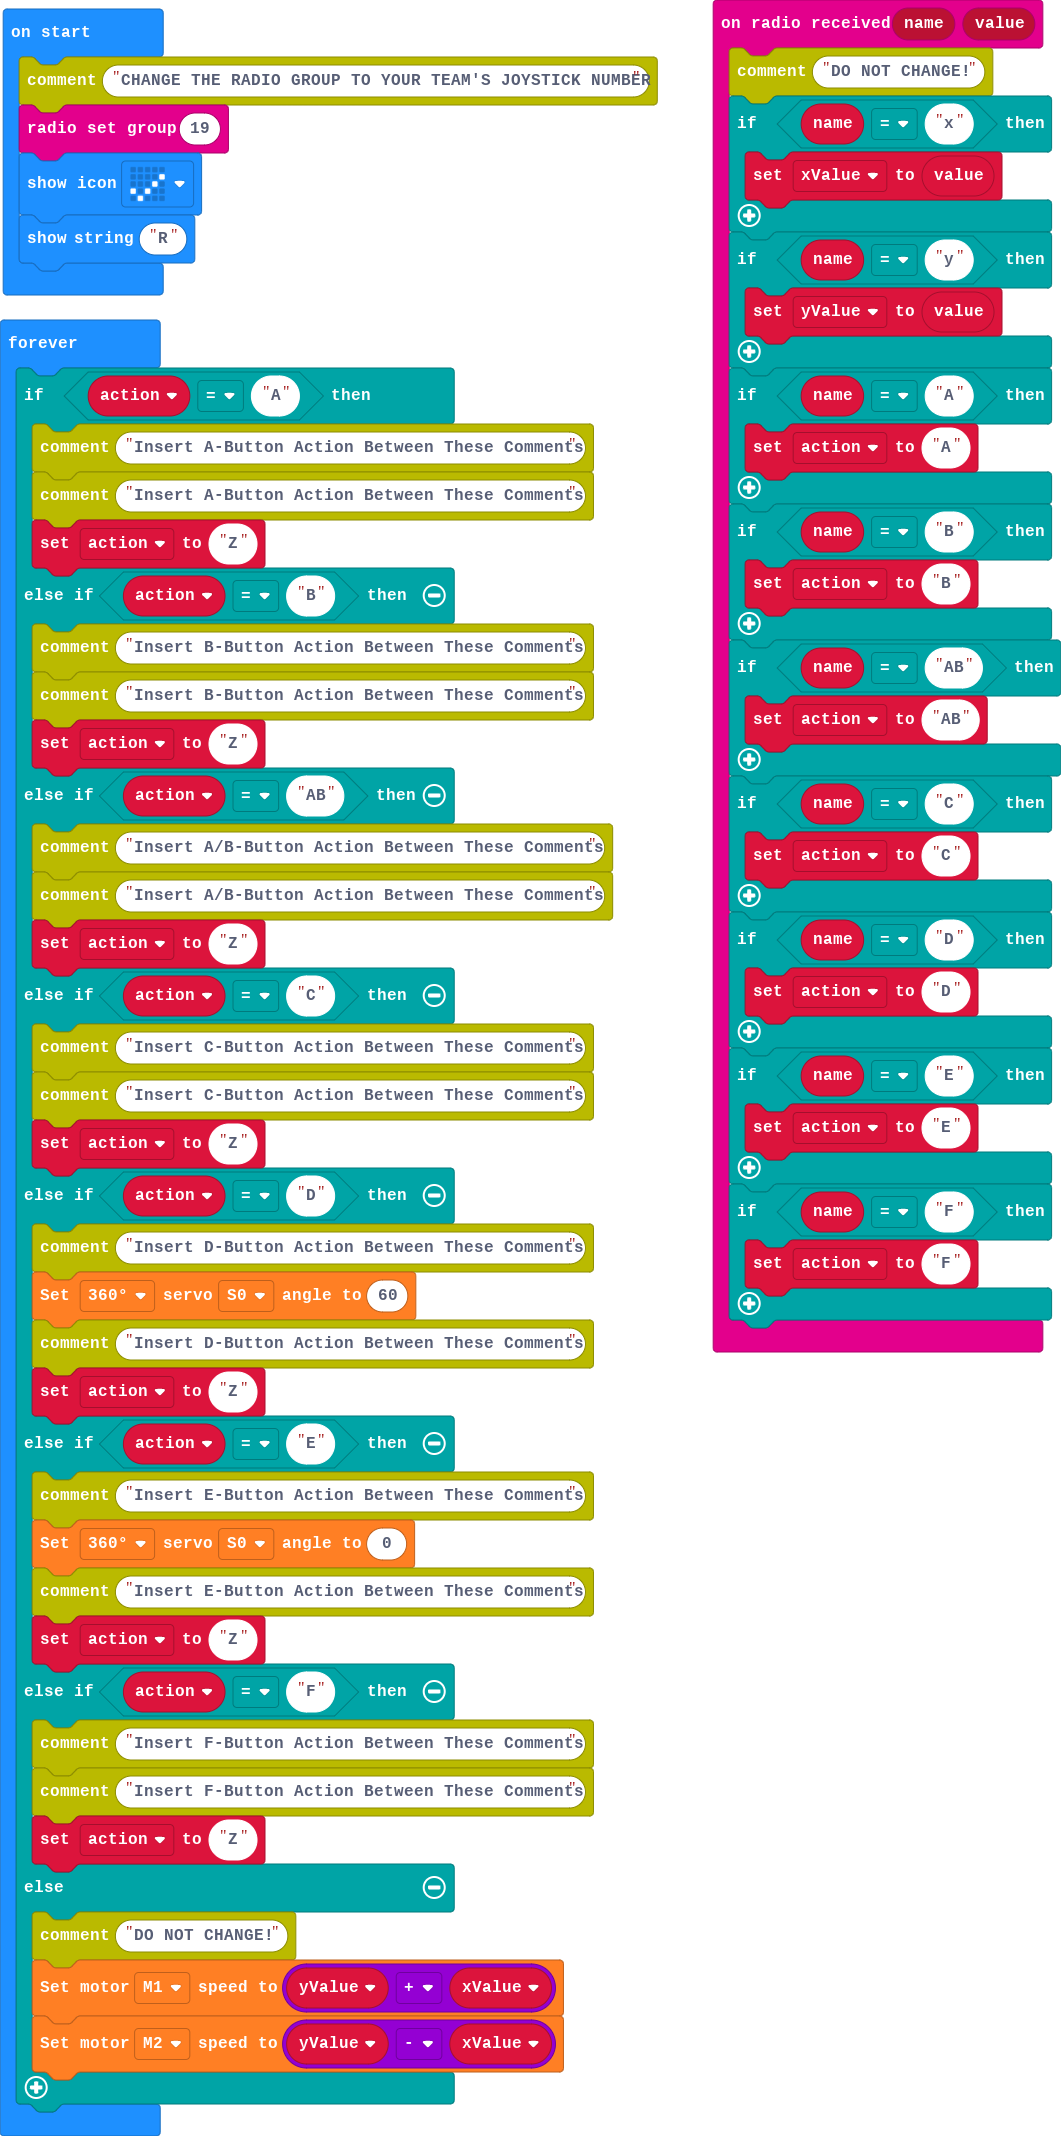
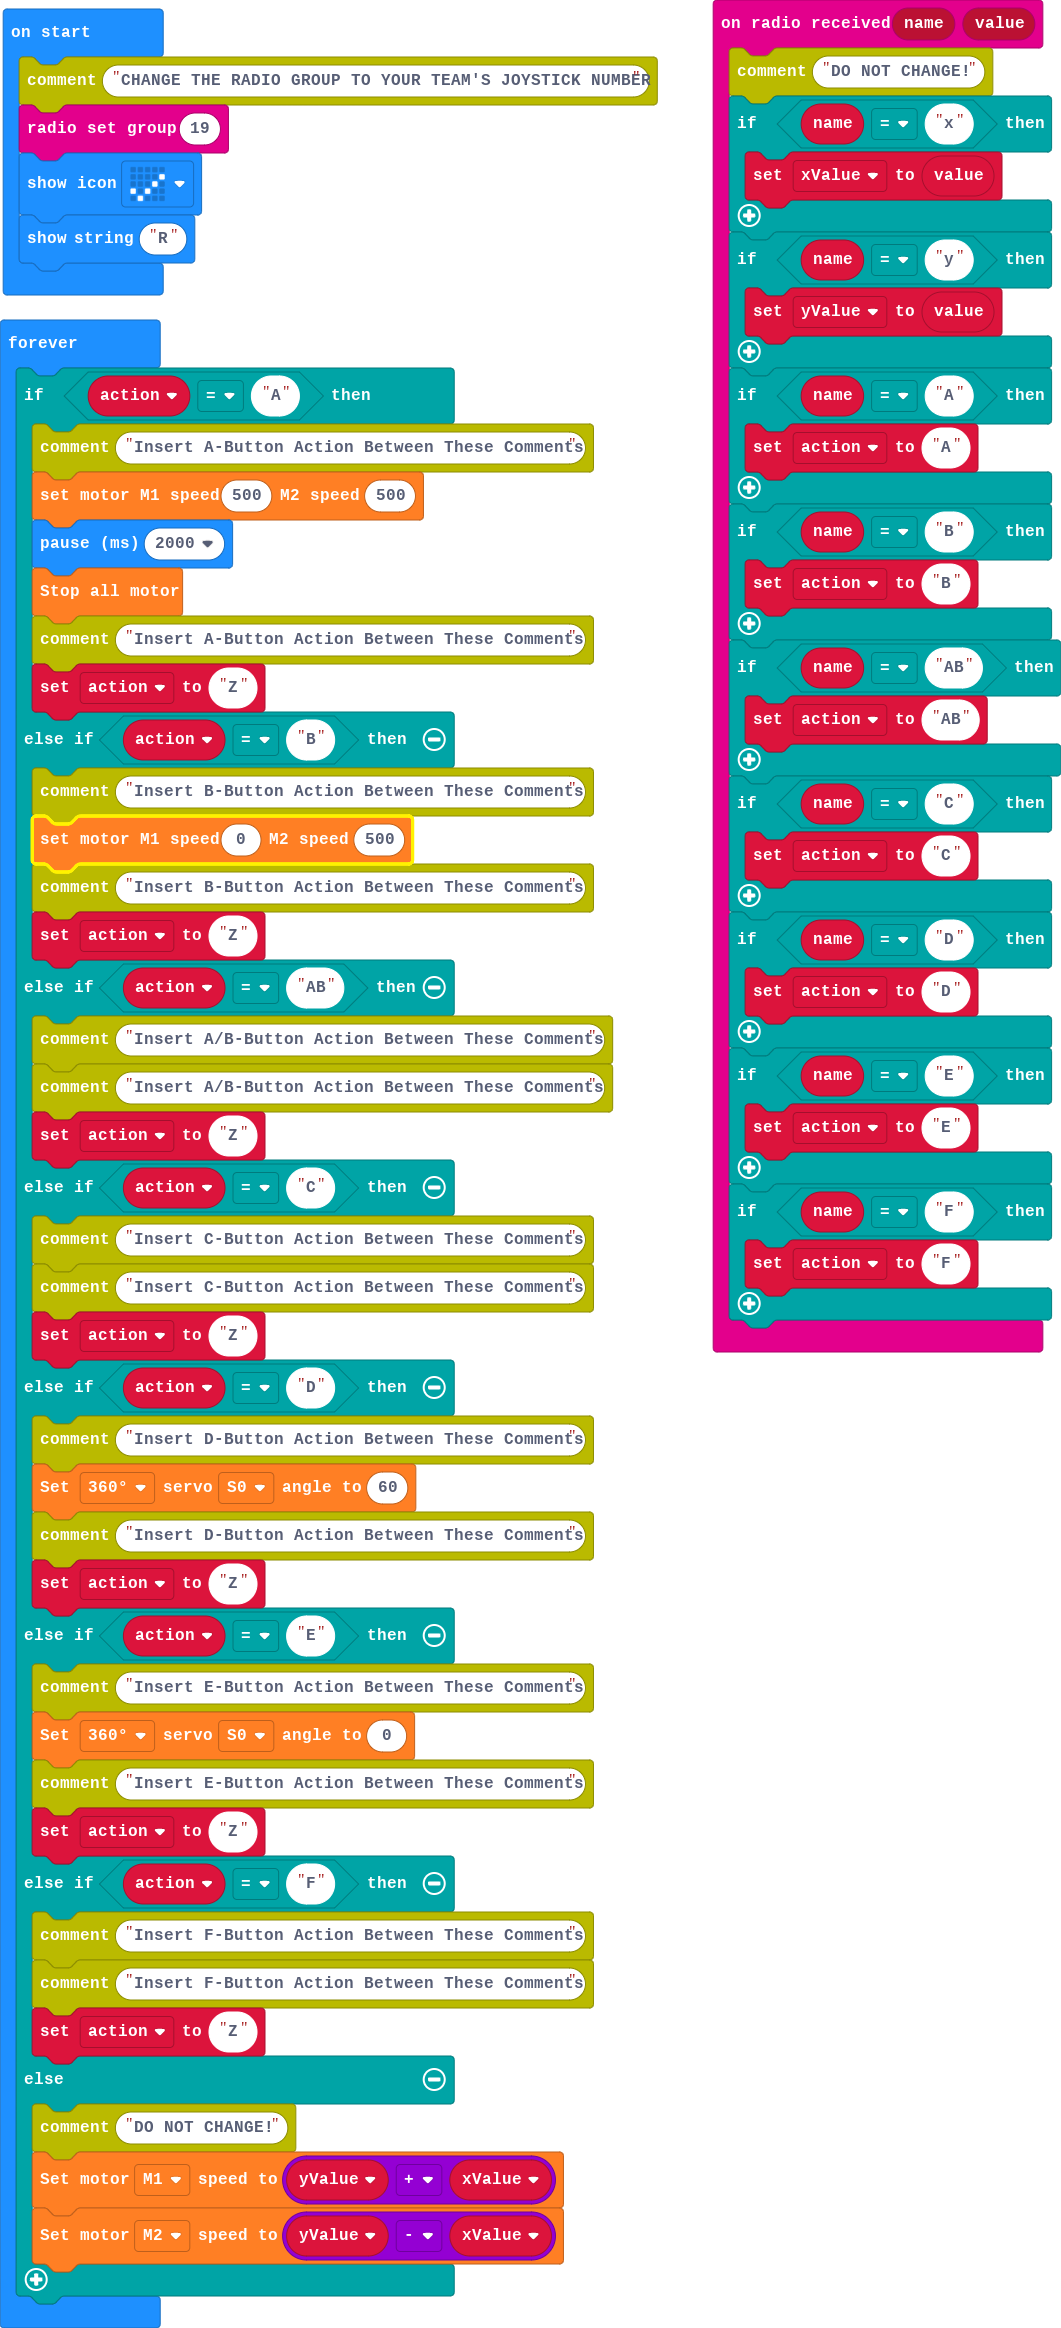
Update main.blocks, main.ts

diff --git a/main.ts b/main.ts
@@ -38,10 +38,14 @@ basic.showString("R")
 basic.forever(function () {
     if (action == "A") {
         comment.comment("Insert A-Button Action Between These Comments")
+        wuKong.setAllMotor(500, 500)
+        basic.pause(2000)
+        wuKong.stopAllMotor()
         comment.comment("Insert A-Button Action Between These Comments")
         action = "Z"
     } else if (action == "B") {
         comment.comment("Insert B-Button Action Between These Comments")
+        wuKong.setAllMotor(0, 500)
         comment.comment("Insert B-Button Action Between These Comments")
         action = "Z"
     } else if (action == "AB") {
